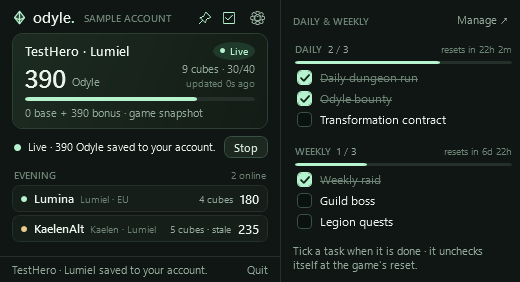
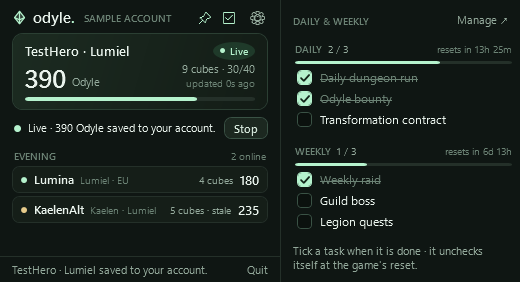
Show the Odyle total only on the card
The line under the value showed the game's base + bonus split, and after
any live change (which carries the total only) it kept saying the split
would come after the next login. Only the total matters, so the line is
gone while a reading is saved; it appears only when something needs
attention, such as a refused save or a character still to be named.

The unused captions leave the Czech dictionary, packet-reader.md describes
the total-only card and the README previews are regenerated.

diff --git a/src/Odyle.Reader/MainWindow.xaml.cs b/src/Odyle.Reader/MainWindow.xaml.cs
@@ -291,20 +291,18 @@ public partial class MainWindow : Window
         else SetPill("Muted", "Muted", "PillNeutral", T("No reading"));
         ReadingLabel.Text = !connected ? T("Open settings to pair with the dashboard.")
             : reading is not null && !owned ? (gameCharacterKey.Length == 0 ? T("Relog or change channel once so the game names the character.") : T("Waiting for the game to name the character."))
-            : reading is not null ? Components(reading) + (publishFailure is null ? "" : " · " + publishFailure)
+            : reading is not null ? publishFailure ?? ""
             : capture is not null ? (character is null ? T("Log into a character · it is detected automatically.") : T("Listening for the game's Odyle snapshot…"))
             : character is null ? T("Start the reader, then log into your character.")
             : character.Confirmed ? T("Last saved value · start the reader for live values.")
             : T("No reading yet · start the reader before logging in.");
+        // A saved live reading needs no caption: the card shows the total only.
+        ReadingLabel.Visibility = ReadingLabel.Text.Length == 0 ? Visibility.Collapsed : Visibility.Visible;
         RenderClock();
         var name = character?.CharacterName ?? accountName;
         var tip = !connected ? T("Odyle · Not connected") : value is { } shown ? $"Odyle · {name} · {shown.ToString("N0", Culture)}" : $"Odyle · {name}";
         tray.Text = tip.Length > 63 ? tip[..63] : tip;
     }
-    // A single-value live update carries the total only; the login snapshot shows both components.
-    private static string Components(PacketCandidate reading) => reading is { Primary: { } b, Bonus: { } x }
-        ? T("{0:N0} base + {1:N0} bonus · {2}", b, x, reading.Source == CandidateSource.Update ? T("live update") : T("game snapshot"))
-        : T("live update · base + bonus split after the next login");
     // Cube cost of the first room the character is shared in, else the first room.
     private int HeroCost(Character? character)
     {

diff --git a/src/Odyle.Core/Czech.cs b/src/Odyle.Core/Czech.cs
@@ -27,8 +27,6 @@ public static class Czech
         ["Start the reader, then log into your character."] = "Spusť čtečku a pak se přihlas na postavu.",
         ["Last saved value · start the reader for live values."] = "Poslední uložená hodnota · pro živé hodnoty spusť čtečku.",
         ["No reading yet · start the reader before logging in."] = "Zatím bez hodnoty · spusť čtečku před přihlášením do hry.",
-        ["{0:N0} base + {1:N0} bonus · {2}"] = "{0:N0} základ + {1:N0} bonus · {2}", ["live update"] = "živá změna", ["game snapshot"] = "stav ze hry",
-        ["live update · base + bonus split after the next login"] = "živá změna · rozdělení na základ a bonus po dalším přihlášení",
         ["updated {0}"] = "aktualizováno {0}", ["saved {0}"] = "uloženo {0}",
         ["{0:N0} packets · {1:N0} KB from the game"] = "paketů: {0:N0} · ze hry {1:N0} KB",
         ["{0}s ago"] = "před {0} s", ["{0}m ago"] = "před {0} min", ["{0}h ago"] = "před {0} h", ["{0}d ago"] = "před {0} d",

diff --git a/docs/packet-reader.md b/docs/packet-reader.md
@@ -19,7 +19,7 @@ Packet bytes remain in bounded in-memory buffers. The app does not save or uploa
 * No decodable game packets for 20 seconds (the game closed, or its connection blocked by lost packets), stopping the reader, switching characters, disconnecting or quitting marks the reading stale on the server; the last value is kept.
 * A duplicate of the same frame seen on a second capture interface is ignored. A server refusal (unknown adapter, expired session) shows **Not saved** with the server's message and retries after a minute; an expired publisher session is rotated automatically. A server that asks the app to slow down (429) pauses sending until its `Retry-After` without rotating the session, so the reading stays live.
 
-The card shows both components as `base + bonus` so a mismatch with the in-game display is easy to spot.
+The card shows the total only, the game's two numbers added together; below it a line appears only while something needs attention, such as a refused save.
 
 ## Automatic character setup
 
@@ -31,7 +31,7 @@ Global server IDs encode faction, region and server number. The name/ID facts co
 
 ## Wire format
 
-The decoder follows public wire-format observations: length varints, optional `F0`–`FE` transport flags, `FF FF` LZ4 blocks, snapshot `0B 61`, update `0C 61`, and own identity `33 36`. Snapshot frames can contain two explicit values, or the single-value form with an implicit zero base. Update frames come in two forms and neither needs a preceding snapshot: the single-value form carries the new total (the reference project measured base 40 + bonus 600, a spend of 80 and a packet value of 560), so the card then shows the total without its split; the two-value form repeats base and bonus. An increase ends with a flag byte and a 32-bit delta, a decrease with one byte; other trailers produce no total. The update opcode is shared with other counters that differ only in their stat-owner id, so the owner is taken from a snapshot whenever one has been seen on this run or an earlier one. The numeric owner ids are kept per account in `%LOCALAPPDATA%\Odyle\stat-owners.json` and never sent anywhere. Without any known owner, the first id seen on a connection is adopted until a snapshot replaces it. The reference project observed the stat-owner id to be fixed per account across characters and sessions, while the own-identity message carries a per-session id, so the two are never compared. Ambiguous snapshots and unknown layouts produce no total. Sprint/dash fields and other stat IDs are ignored without disturbing the Odyle owner.
+The decoder follows public wire-format observations: length varints, optional `F0`–`FE` transport flags, `FF FF` LZ4 blocks, snapshot `0B 61`, update `0C 61`, and own identity `33 36`. Snapshot frames can contain two explicit values, or the single-value form with an implicit zero base. Update frames come in two forms and neither needs a preceding snapshot: the single-value form carries the new total (the reference project measured base 40 + bonus 600, a spend of 80 and a packet value of 560), which is all the card shows; the two-value form repeats base and bonus. An increase ends with a flag byte and a 32-bit delta, a decrease with one byte; other trailers produce no total. The update opcode is shared with other counters that differ only in their stat-owner id, so the owner is taken from a snapshot whenever one has been seen on this run or an earlier one. The numeric owner ids are kept per account in `%LOCALAPPDATA%\Odyle\stat-owners.json` and never sent anywhere. Without any known owner, the first id seen on a connection is adopted until a snapshot replaces it. The reference project observed the stat-owner id to be fixed per account across characters and sessions, while the own-identity message carries a per-session id, so the two are never compared. Ambiguous snapshots and unknown layouts produce no total. Sprint/dash fields and other stat IDs are ignored without disturbing the Odyle owner.
 
 References: [Aion2 Aether Monitoring](https://github.com/gyu98-mun/Aion2_Aether_Monitoring/blob/main/aion2_core.py) (format observations; its source has no reusable license and was not copied), [AionMeter for Global](https://github.com/cyberbadger6969/aion2-dps-meter) (Global port, heartbeat framing and transport flag; GPL source not incorporated), [Npcap API](https://npcap.com/guide/npcap-devguide.html) through native imports, and [K4os LZ4](https://github.com/MiloszKrajewski/K4os.Compression.LZ4) as the only managed dependency.
 
